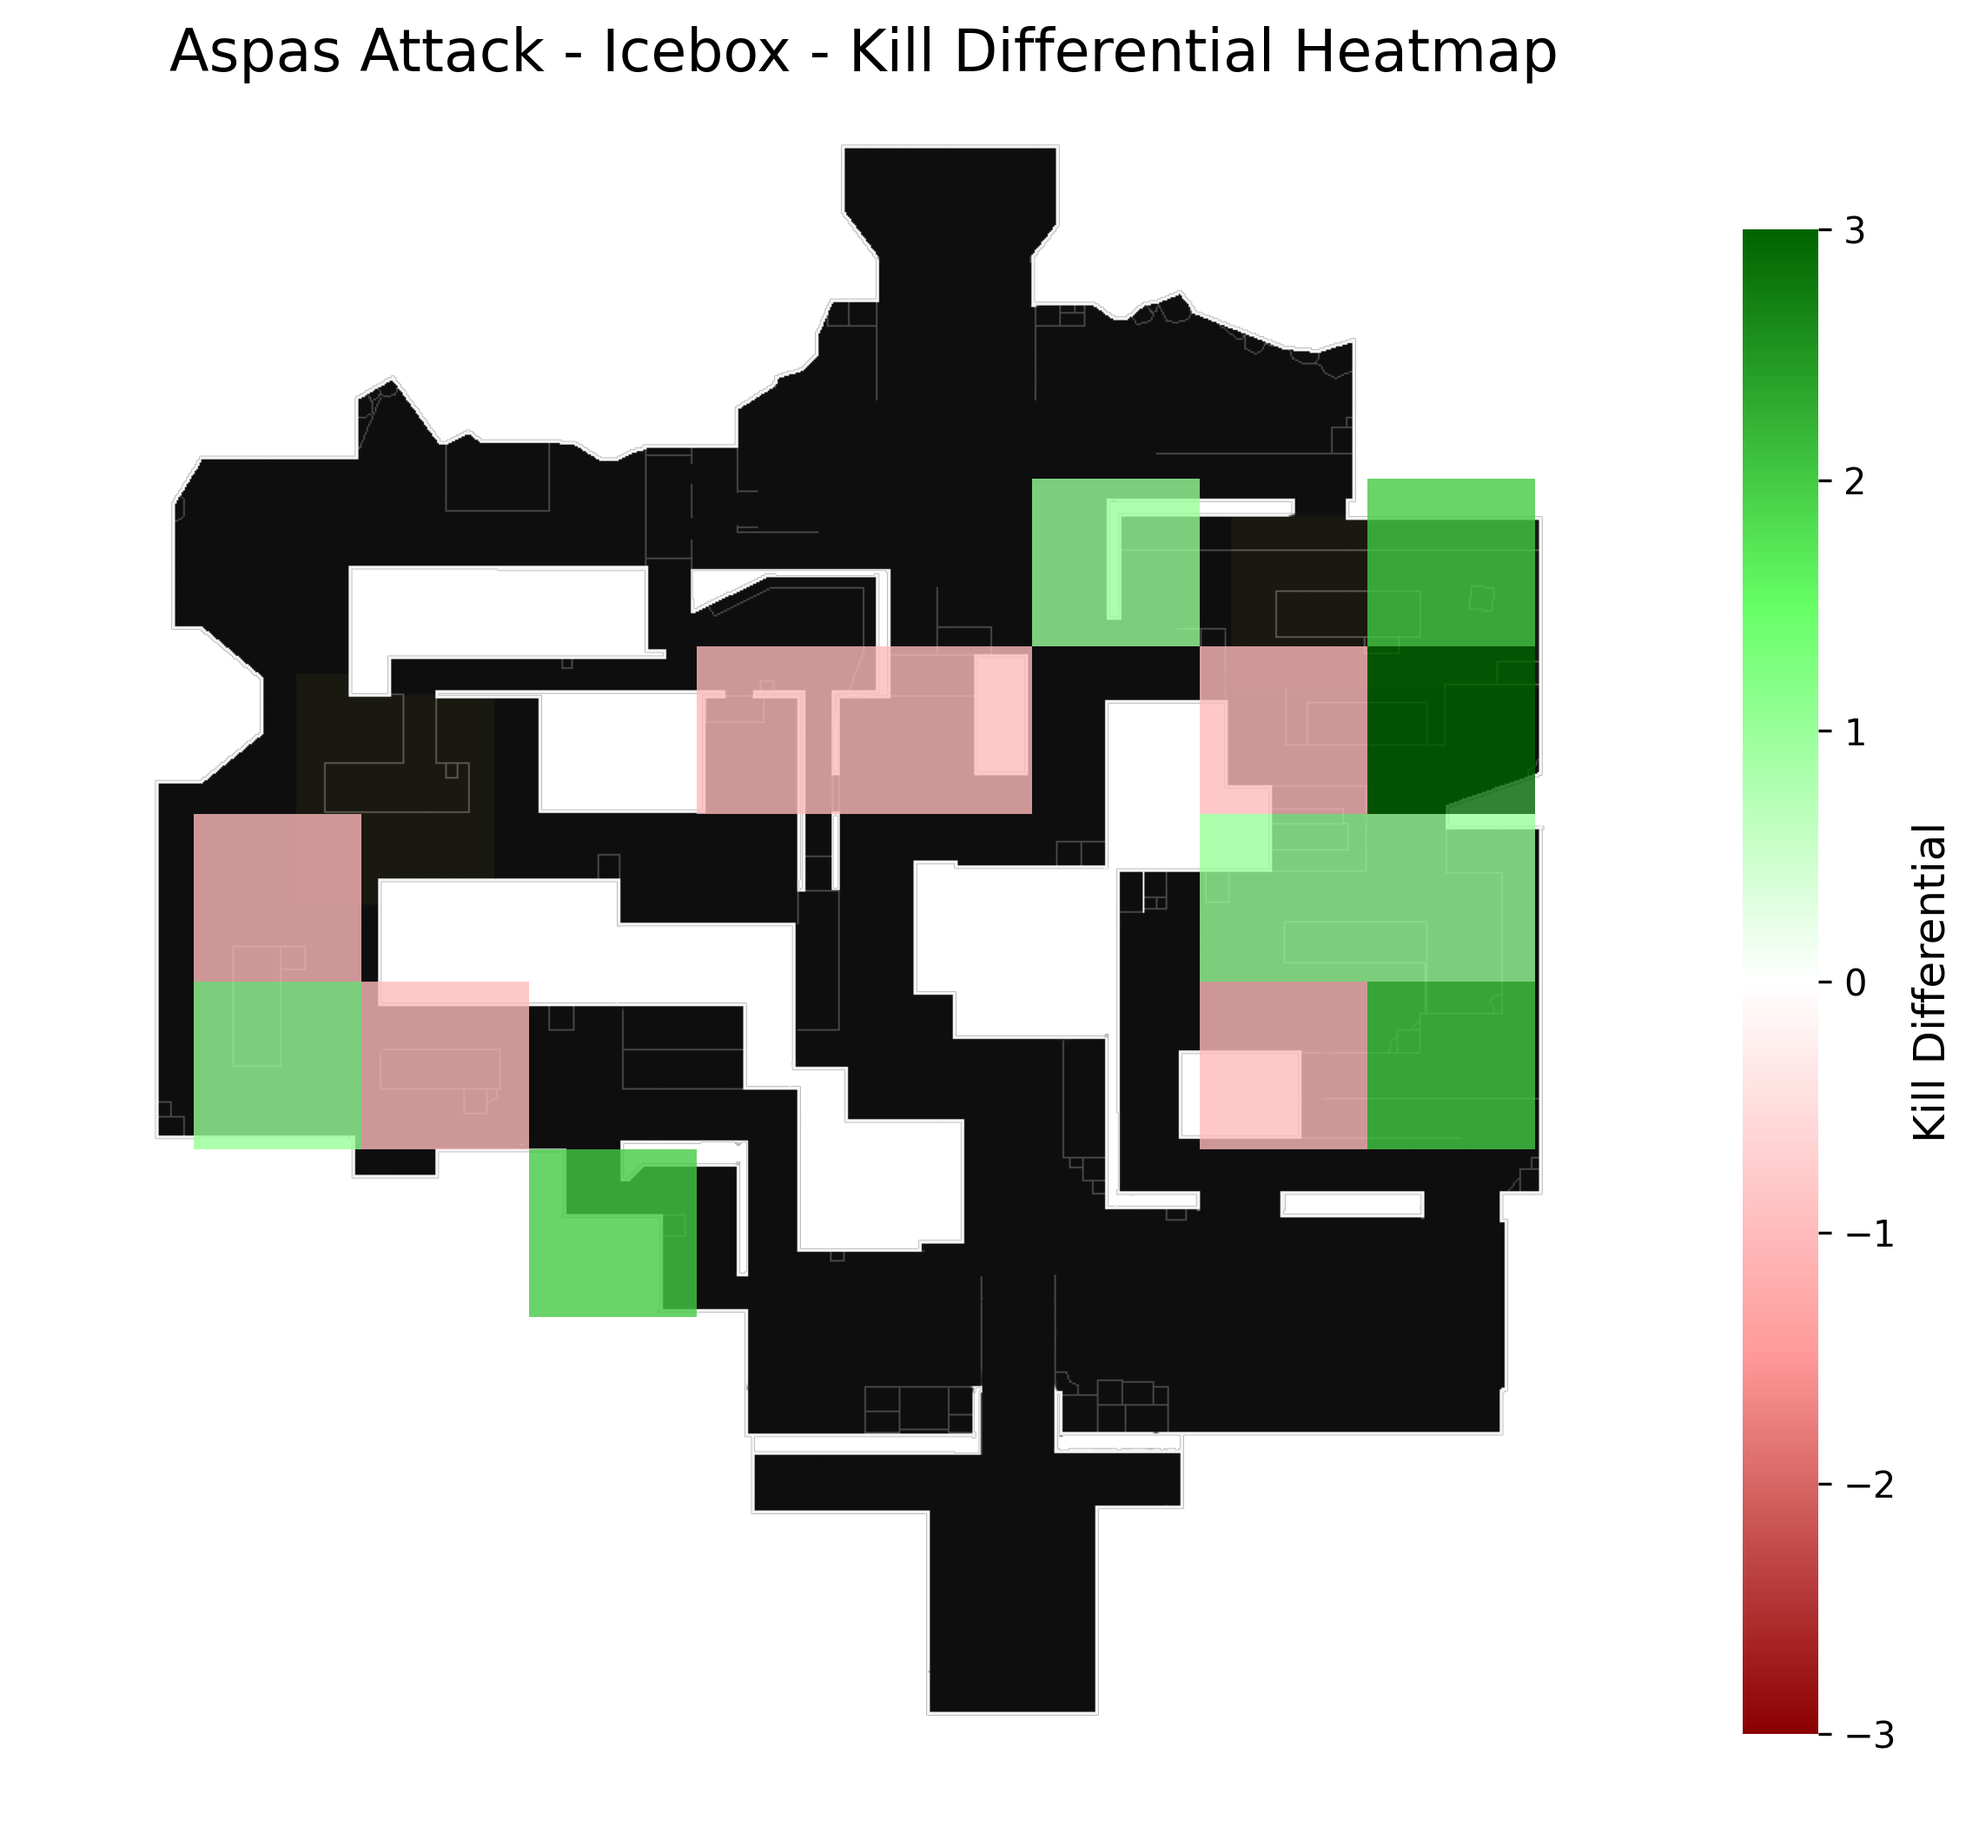
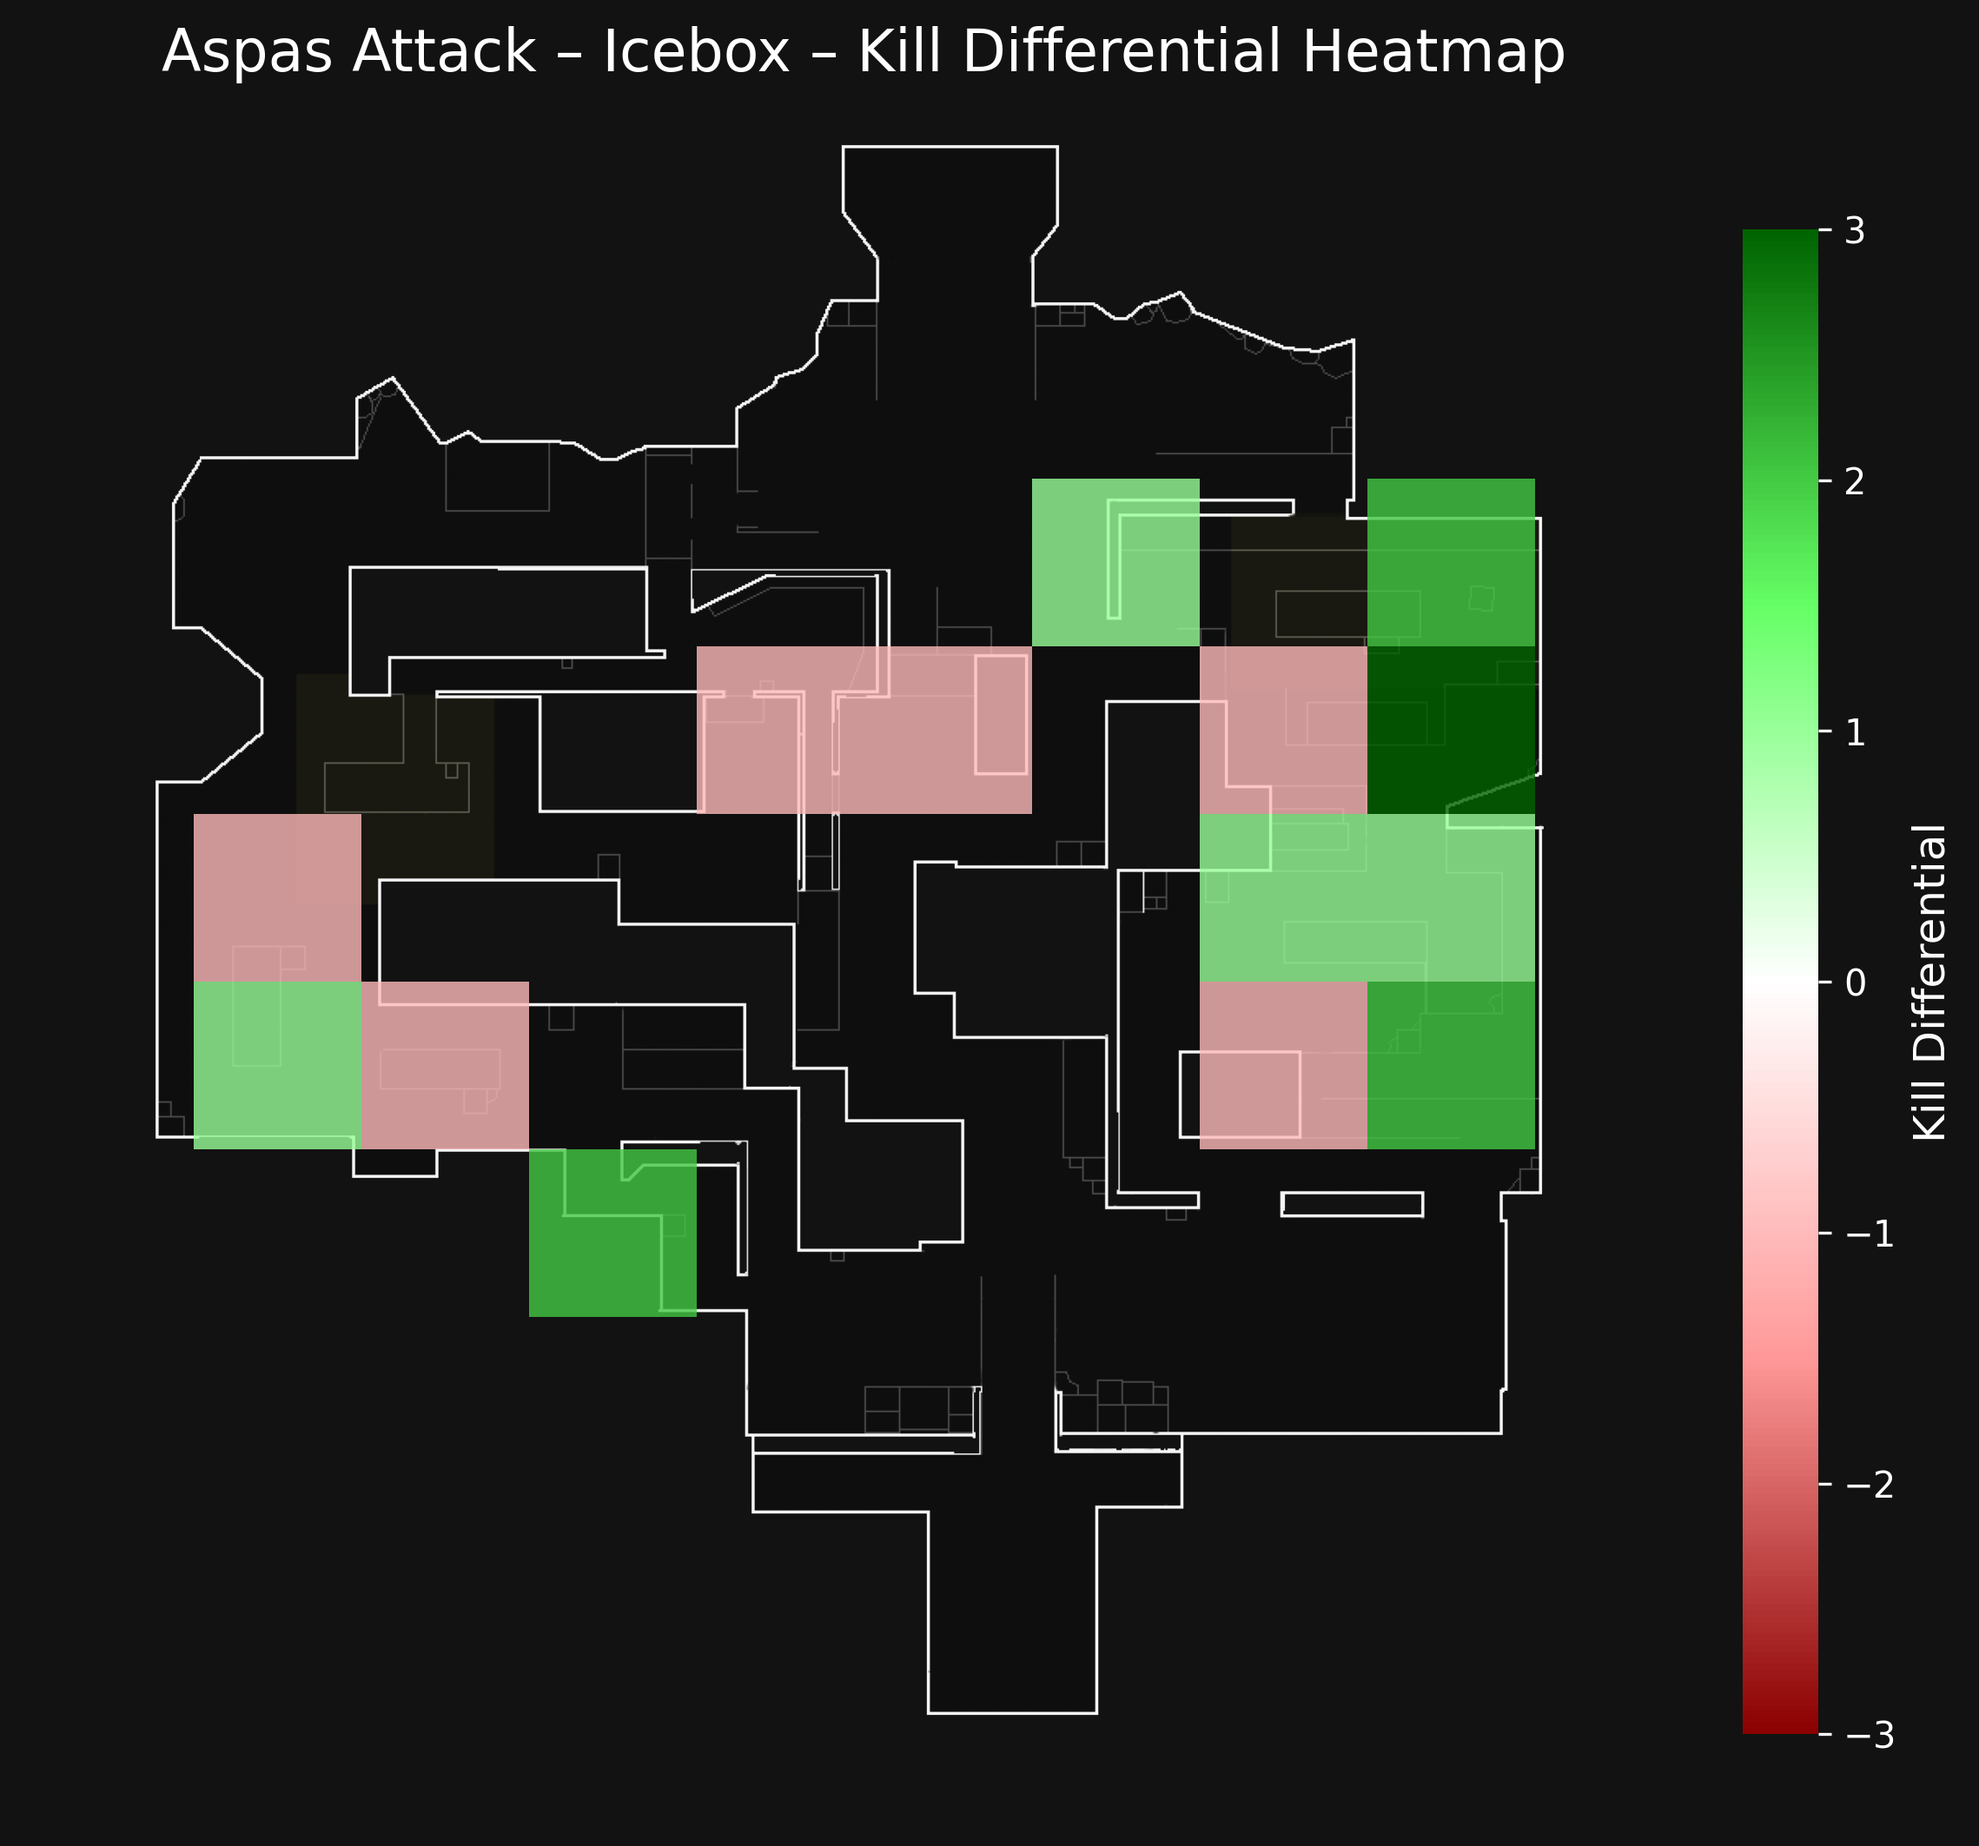
fix(main): dark theme

diff --git a/main.py b/main.py
@@ -5,6 +5,9 @@ import matplotlib.colors as mcolors # using mcolors instead of patches
 import re
 import os  # <-- NEW: for dynamic title
 
+# ←— ADDED: use Matplotlib’s built-in dark style
+plt.style.use('dark_background')
+
 # --- Load Map ---
 map_path = 'maps/Icebox.png'
 try:
@@ -31,32 +34,17 @@ for _, row in df.iterrows():
     if ',' not in coord:
         print(f"Skipping invalid coord: '{coord}'")
         continue
-
     try:
         y, x = map(int, coord.split(','))
-    except Exception as e:
-        print(f"Failed to parse coordinate '{coord}': {e}")
+    except:
         continue
 
-    # Extract number from 'Kills' and 'Deaths' columns like '4 kills'
-    kills_text = str(row['Kills']).strip()
-    deaths_text = str(row['Deaths']).strip()
-
-    kills_match = re.match(r'(\d+)', kills_text)
-    deaths_match = re.match(r'(\d+)', deaths_text)
-
-    if not (kills_match and deaths_match):
-        print(f"Invalid kills/deaths: '{kills_text}', '{deaths_text}'")
-        continue
-
-    kills = int(kills_match.group(1))
-    deaths = int(deaths_match.group(1))
-
-    # We still recalculate diff just in case
+    # parse kills/deaths
+    kills = int(re.match(r'(\d+)', row['Kills']).group(1))
+    deaths = int(re.match(r'(\d+)', row['Deaths']).group(1))
     diff = kills - deaths
     engagements = kills + deaths
 
-    print(f"Grid ({y},{x}): K={kills}, D={deaths}, Diff={diff}, Engage={engagements}")
     diff_grid[y, x] = diff
     engage_grid[y, x] = engagements
 
@@ -70,7 +58,7 @@ diff_colors = [
     (1.0, '#006400')   # Dark green (+3)
 ]
 diff_cmap = mcolors.LinearSegmentedColormap.from_list('DiffRedGreen', diff_colors)
-diff_norm = plt.Normalize(vmin=-3, vmax=3)
+diff_norm = plt.Normalize(vmin=-3, vmax=+3)
 
 # Engagements: Light red to dark red
 engage_cmap = mcolors.LinearSegmentedColormap.from_list('EngagementRed', [
@@ -86,7 +74,13 @@ engage_norm = plt.Normalize(vmin=0, vmax=max_engage)
 choice = input("What heatmap do you want to generate? (diff / engage):\n").strip().lower()
 
 if choice in ['diff', 'engage']:
-    fig, ax = plt.subplots(figsize=(10, 10))
+    fig, ax = plt.subplots(
+        figsize=(10, 10),
+        # ←— ADDED: set the figure facecolor to match dark style
+        facecolor='#121212',
+    )
+    # ←— ADDED: dark background for the axes
+    ax.set_facecolor('#121212')
 
     ax.imshow(img, extent=[0, 10, 10, 0], origin='upper', zorder=0)
 
@@ -130,15 +124,26 @@ if choice in ['diff', 'engage']:
     sm.set_array([])
     cbar = plt.colorbar(sm, ax=ax, shrink=0.75, pad=0.02)
     cbar.outline.set_visible(False)
-    cbar.set_label(color_label, fontsize=12)
+    # ←— ADDED: make ticks & label white
+    cbar.ax.yaxis.set_tick_params(color='white')
+    cbar.ax.tick_params(colors='white')
+    cbar.set_label(color_label, fontsize=12, color='white')
 
     # ✅ Dynamic title here!
-    ax.set_title(f"{match_label} - {map_name} - {title_type}", fontsize=16, pad=20)
+    ax.set_title(
+        f"{match_label} – {map_name} – {title_type}",
+        fontsize=16,
+        pad=20,
+        color='white'
+    )
+
     ax.set_axis_off()
     output_file = f'demo_heatmap_{choice}.png'
-    plt.savefig(output_file, bbox_inches='tight', dpi=300)
+    plt.savefig(output_file, bbox_inches='tight', dpi=300,
+                # ←— ADDED: ensure figure bg is saved
+                facecolor=fig.get_facecolor()
+    )
     print(f"Saved {output_file}")
     plt.show()
-
 else:
     print("Invalid choice. Please run the script again and enter diff or engage.")
